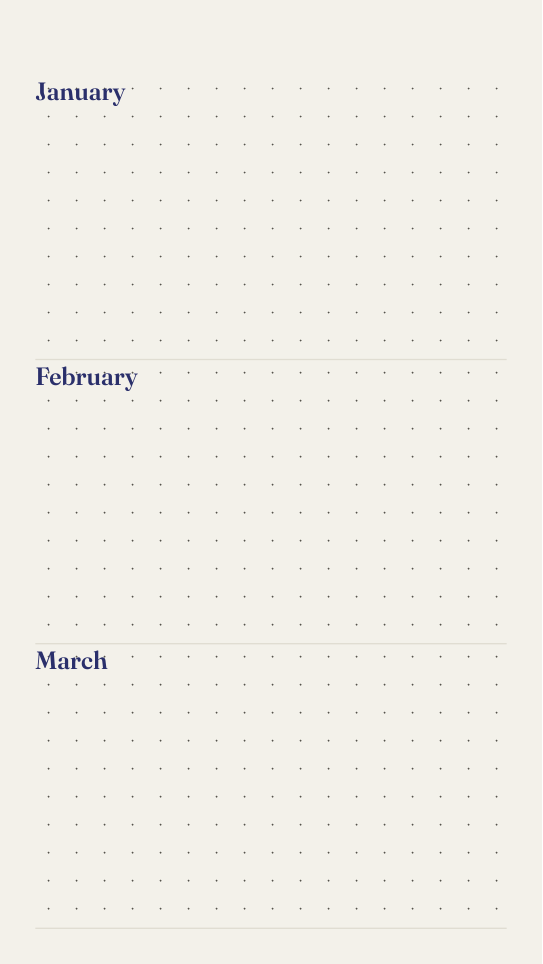
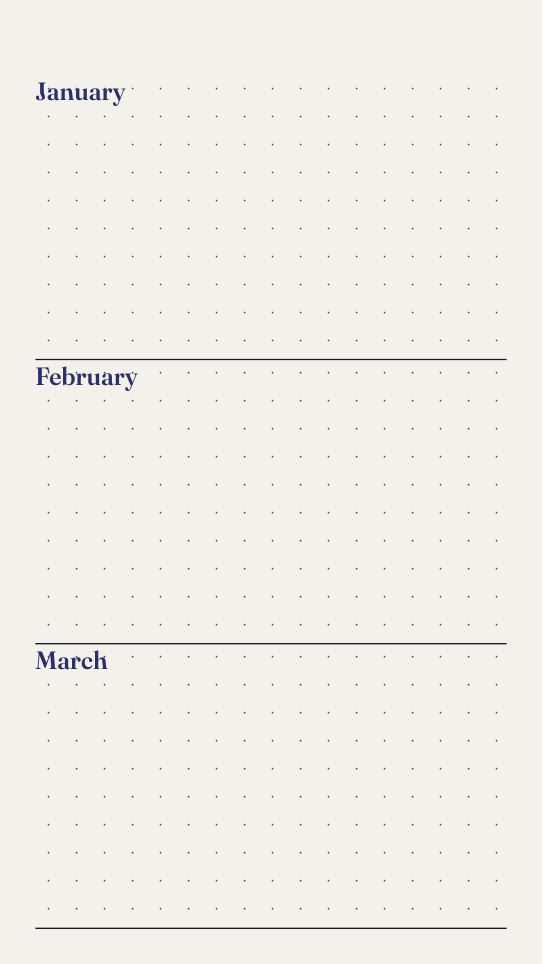
future-log/daily rules: match fulgur's currentColor fallback
fulgur didn't resolve var(--rule) in the border shorthand, so it fell back to
currentColor: the future-log block dividers rendered in body ink (near-black),
and the daily date-pill underline in indigo (primary) — not the faint --rule
grey the stylesheet asked for. Reproduce the deployed look: ink for the
future-log dividers, primary for the daily underline. Goldens + README
future-log screenshot refreshed.

diff --git a/rmbujo/src/templates.rs b/rmbujo/src/templates.rs
@@ -83,8 +83,11 @@ impl FutureLog<'_> {
         let mut blocks = String::new();
         for name in self.months {
             blocks.push_str(&format!(
+                // Divider is ink (near-black), matching the deployed fulgur look:
+                // fulgur didn't resolve `var(--rule)` in the border shorthand and
+                // fell back to currentColor (the block's inherited body ink).
                 "#block(width: 100%, height: (page-h - toolbar-pt - margin-pt) / 3, \
-                 inset: (top: 4pt), stroke: (bottom: 0.6pt + rule-col), \
+                 inset: (top: 4pt), stroke: (bottom: 0.6pt + ink), \
                  spacing: 0pt, fill: dot-tile)[\n\
                  #text(font: \"Fraunces 72pt\", size: 12pt, weight: 600, fill: primary)[{name}]\n\
                  ]\n",
@@ -226,7 +229,7 @@ impl DailyPage<'_> {
              #box(width: 100%)[\
              #link(label(\"monthly\"))[#box(fill: paper, \
              inset: (left: 3pt, right: 3pt, top: 1pt, bottom: 2pt), \
-             stroke: (bottom: 0.75pt + rule-col))[\
+             stroke: (bottom: 0.75pt + primary))[\
              #text(font: \"Fraunces 72pt\", size: 13pt, weight: 600, fill: primary)[{date}]]] \
              #label(\"day-{day}\")\
              #h(1fr){badge}]\n\
